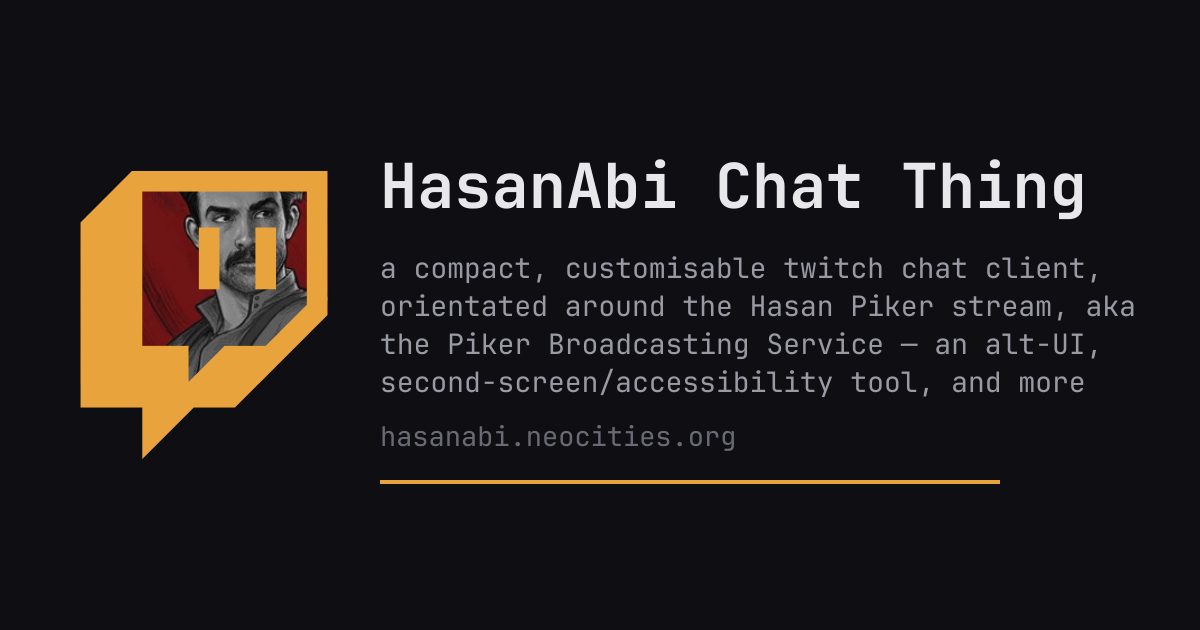
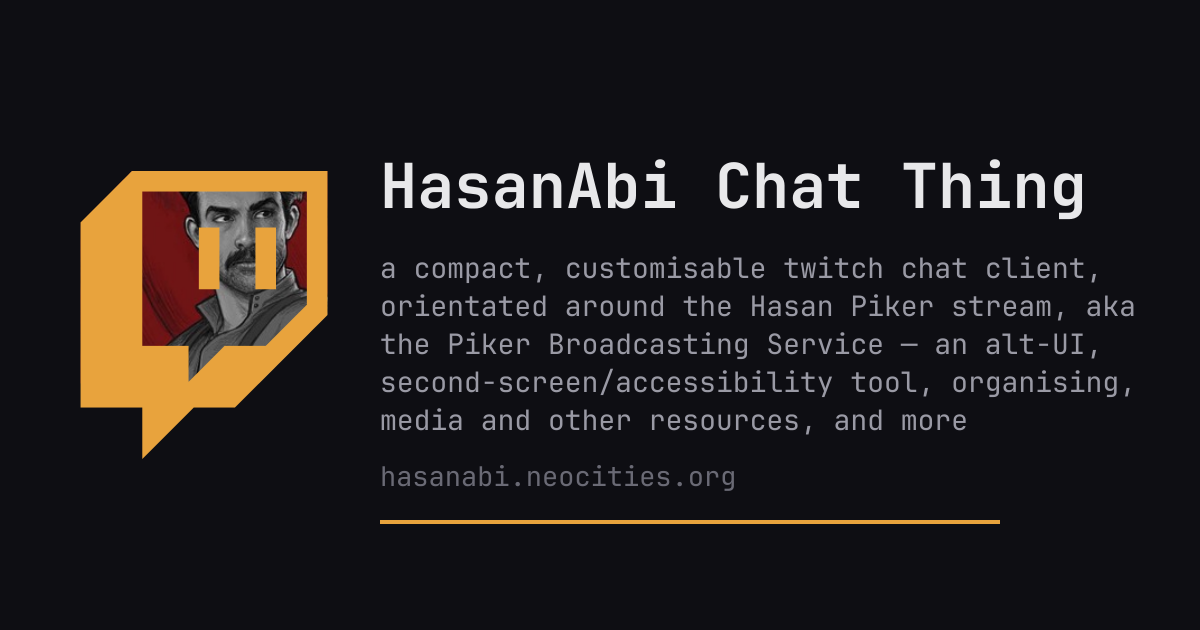
Extend the description ending with organising, media and resources

Changed region(s): [[0.3083, 0.6333, 0.8325, 0.7841], [0.3083, 0.8143, 0.8325, 0.8444], [0.8017, 0.573, 0.9558, 0.6333]]

diff --git a/index.html b/index.html
@@ -12,18 +12,18 @@
 <meta name="apple-mobile-web-app-title" content="Hasan Chat">
 <link rel="apple-touch-icon" href="apple-touch-icon.png">
 <title>HasanAbi Chat Thing</title>
-<meta name="description" content="A compact, customisable HasanAbi Twitch chat client — real emotes, badges, replies, stream video, themes and resources — orientated around the Hasan Piker stream, aka the Piker Broadcasting Service. An alt-UI, second-screen/accessibility tool, and more.">
+<meta name="description" content="A compact, customisable HasanAbi Twitch chat client — real emotes, badges, replies, stream video, themes and resources — orientated around the Hasan Piker stream, aka the Piker Broadcasting Service. An alt-UI, second-screen/accessibility tool, organising, media and other resources, and more.">
 <meta property="og:type" content="website">
 <meta property="og:site_name" content="HasanAbi Chat Thing">
 <meta property="og:title" content="HasanAbi Chat Thing">
-<meta property="og:description" content="A compact, customisable HasanAbi Twitch chat client — real emotes, badges, replies, stream video, themes and resources — orientated around the Hasan Piker stream, aka the Piker Broadcasting Service. An alt-UI, second-screen/accessibility tool, and more.">
+<meta property="og:description" content="A compact, customisable HasanAbi Twitch chat client — real emotes, badges, replies, stream video, themes and resources — orientated around the Hasan Piker stream, aka the Piker Broadcasting Service. An alt-UI, second-screen/accessibility tool, organising, media and other resources, and more.">
 <meta property="og:url" content="https://hasanabi.neocities.org/">
 <meta property="og:image" content="https://hasanabi.neocities.org/og.png">
 <meta property="og:image:width" content="1200">
 <meta property="og:image:height" content="630">
 <meta name="twitter:card" content="summary_large_image">
 <meta name="twitter:title" content="HasanAbi Chat Thing">
-<meta name="twitter:description" content="A compact, customisable HasanAbi Twitch chat client — real emotes, badges, replies, stream video, themes and resources — orientated around the Hasan Piker stream, aka the Piker Broadcasting Service. An alt-UI, second-screen/accessibility tool, and more.">
+<meta name="twitter:description" content="A compact, customisable HasanAbi Twitch chat client — real emotes, badges, replies, stream video, themes and resources — orientated around the Hasan Piker stream, aka the Piker Broadcasting Service. An alt-UI, second-screen/accessibility tool, organising, media and other resources, and more.">
 <meta name="twitter:image" content="https://hasanabi.neocities.org/og.png">
 <link rel="preconnect" href="https://fonts.gstatic.com" crossorigin>
 <link rel="stylesheet" href="https://fonts.googleapis.com/css2?family=Atkinson+Hyperlegible&family=Fira+Code:wght@400;600&family=IBM+Plex+Mono:wght@400;600&family=Inter&family=JetBrains+Mono:wght@400;600&family=Lexend:wght@400;600&family=Source+Code+Pro:wght@400;600&family=Source+Sans+3&family=VT323&display=swap">

diff --git a/README.md b/README.md
@@ -3,7 +3,8 @@
 A compact, customizable Twitch chat page for [HasanAbi](https://www.twitch.tv/hasanabi),
 hosted on Neocities — orientated around the Hasan Piker stream, aka the
 Piker Broadcasting Service. An alt-UI, second-screen/accessibility tool,
-and more. Live at <https://hasanabi.neocities.org/>.
+organising, media and other resources, and more. Live at
+<https://hasanabi.neocities.org/>.
 
 The project comes in two parts: the frontend
 ([hasanabi.neocities.org](https://github.com/mxmilkiib/hasanabi.neocities.org),
